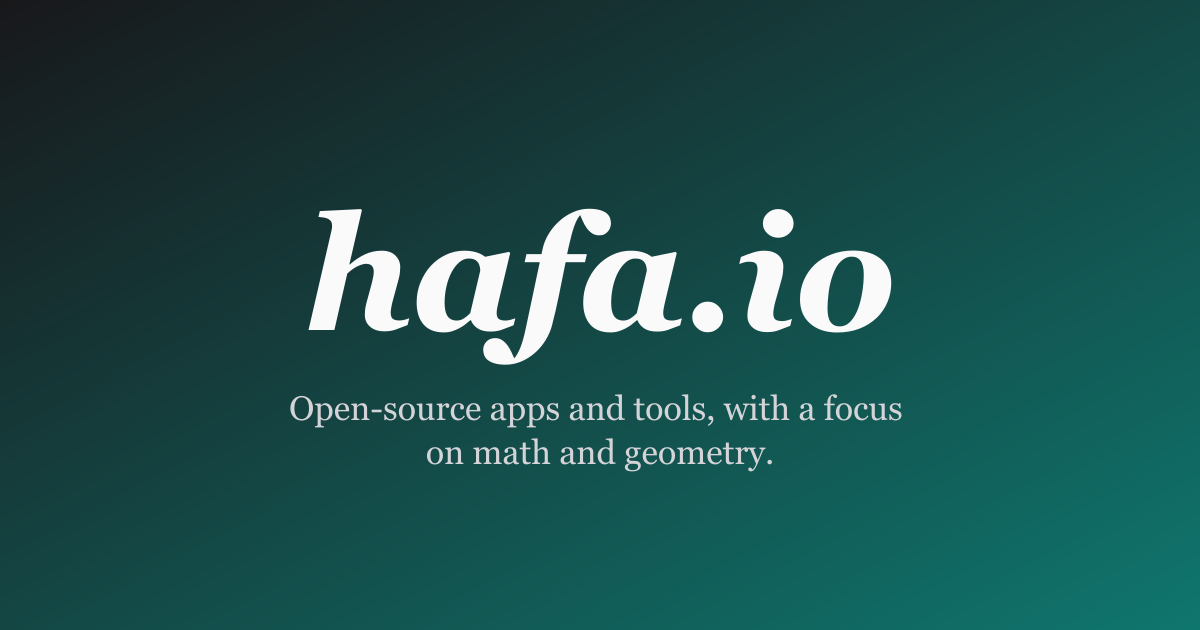
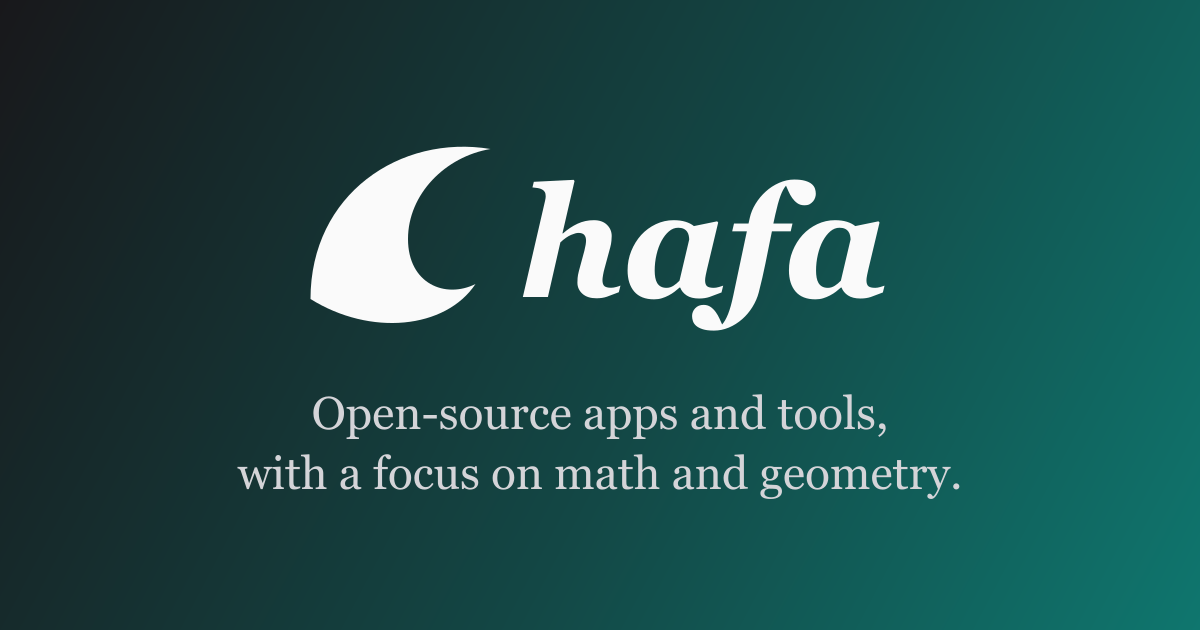
feat!: move to hafa.cc (#35)

Changed region(s): [[0.2467, 0.2111, 0.74, 0.6032], [0.185, 0.6032, 0.8017, 0.7841], [0.0, 0.8444, 0.2158, 1.0]]

diff --git a/app/page.tsx b/app/page.tsx
@@ -13,11 +13,11 @@ import { SiPolars, SiPypi } from "react-icons/si";
 import { TbBraces, TbHierarchy3 } from "react-icons/tb";
 import ExternalAnchor from "../components/external-anchor";
 import FiblatLogo from "../components/fiblat-logo";
+import HafaLogo from "../components/hafa-logo";
 import HilbertLogo from "../components/hilbert-logo";
 import Project from "../components/project";
 import ThemeButton from "../components/theme-button";
 import asciiMath from "../images/ascii-math.svg";
-import hafa from "../images/hafa.svg";
 import splash from "../images/irina-shishkina-FMlZAUFmkvw-unsplash.jpg";
 import kip from "../images/kip.svg";
 import remarkableLogo from "../images/remarkable-logo.svg";
@@ -76,13 +76,12 @@ export default function Hero(): ReactElement {
         <div className="max-w-4xl h-full mx-auto my-2 px-6 flex items-center justify-between dark:text-zinc-100">
           <Link href="/">
             <span className="flex items-center">
-              <Image
-                src={(hafa as Svg).src}
-                alt="hafa.io logo"
-                height={36}
-                width={36}
+              <HafaLogo
+                width={28}
+                height={28}
+                className="text-[#14151a] dark:text-zinc-100"
               />
-              <span className="font-cursive text-4xl pl-2">hafa.io</span>
+              <span className="font-cursive text-4xl pl-2">hafa</span>
             </span>
           </Link>
           <ThemeButton />
@@ -99,7 +98,7 @@ export default function Hero(): ReactElement {
         />
         <div className="absolute inset-0 bg-linear-to-t from-black/40 to-transparent" />
         <h1 className="relative text-8xl font-bold text-white transition-opacity duration-500 scroll-hide font-cursive select-none">
-          hafa.io
+          hafa
         </h1>
       </div>
       <main className="min-h-screen max-w-4xl mx-auto flex flex-col items-center pb-32">
@@ -129,12 +128,12 @@ export default function Hero(): ReactElement {
               buttons={[
                 {
                   text: "Website",
-                  href: "https://hafaio.github.io/scenic-route",
+                  href: "https://hafa.cc/scenic-route/",
                   icon: <FaGlobe />,
                 },
                 {
                   text: "Github",
-                  href: "https://github.com/hafaio/scenic-route",
+                  href: "https://github.com/hafacc/scenic-route",
                   icon: <FaGithub />,
                 },
               ]}
@@ -154,12 +153,12 @@ export default function Hero(): ReactElement {
               buttons={[
                 {
                   text: "Website",
-                  href: "https://hafaio.github.io/kip",
+                  href: "https://hafa.cc/kip/",
                   icon: <FaGlobe />,
                 },
                 {
                   text: "Github",
-                  href: "https://github.com/hafaio/kip",
+                  href: "https://github.com/hafacc/kip",
                   icon: <FaGithub />,
                 },
               ]}
@@ -187,7 +186,7 @@ export default function Hero(): ReactElement {
                 },
                 {
                   text: "Github",
-                  href: "https://github.com/hafaio/repub",
+                  href: "https://github.com/hafacc/repub",
                   icon: <FaGithub />,
                 },
               ]}
@@ -207,12 +206,12 @@ export default function Hero(): ReactElement {
               buttons={[
                 {
                   text: "Website",
-                  href: "https://hafaio.github.io/color-separation",
+                  href: "https://hafa.cc/color-separation/",
                   icon: <FaGlobe />,
                 },
                 {
                   text: "Github",
-                  href: "https://github.com/hafaio/color-separation",
+                  href: "https://github.com/hafacc/color-separation",
                   icon: <FaGithub />,
                 },
               ]}
@@ -225,12 +224,12 @@ export default function Hero(): ReactElement {
               buttons={[
                 {
                   text: "Website",
-                  href: "https://hafaio.github.io/loose-rat",
+                  href: "https://hafa.cc/loose-rat/",
                   icon: <FaGlobe />,
                 },
                 {
                   text: "Github",
-                  href: "https://github.com/hafaio/loose-rat",
+                  href: "https://github.com/hafacc/loose-rat",
                   icon: <FaGithub />,
                 },
               ]}
@@ -255,7 +254,7 @@ export default function Hero(): ReactElement {
                 },
                 {
                   text: "Github",
-                  href: "https://github.com/hafaio/asciimath-unicode",
+                  href: "https://github.com/hafacc/asciimath-unicode",
                   icon: <FaGithub />,
                 },
               ]}
@@ -268,12 +267,12 @@ export default function Hero(): ReactElement {
               buttons={[
                 {
                   text: "Website",
-                  href: "https://hafaio.github.io/synesthizer",
+                  href: "https://hafa.cc/synesthizer/",
                   icon: <FaGlobe />,
                 },
                 {
                   text: "Github",
-                  href: "https://github.com/hafaio/synesthizer",
+                  href: "https://github.com/hafacc/synesthizer",
                   icon: <FaGithub />,
                 },
               ]}
@@ -450,7 +449,7 @@ export default function Hero(): ReactElement {
                 },
                 {
                   text: "Github",
-                  href: "https://github.com/hafaio/fibonacci_lattice",
+                  href: "https://github.com/hafacc/fibonacci_lattice",
                   icon: <FaGithub />,
                 },
               ]}
@@ -475,7 +474,7 @@ export default function Hero(): ReactElement {
                 },
                 {
                   text: "Github",
-                  href: "https://github.com/hafaio/hilbert-bytes",
+                  href: "https://github.com/hafacc/hilbert-bytes",
                   icon: <FaGithub />,
                 },
               ]}
@@ -493,7 +492,7 @@ export default function Hero(): ReactElement {
                 },
                 {
                   text: "Github",
-                  href: "https://github.com/hafaio/homeotopy",
+                  href: "https://github.com/hafacc/homeotopy",
                   icon: <FaGithub />,
                 },
               ]}
@@ -517,7 +516,7 @@ export default function Hero(): ReactElement {
                 },
                 {
                   text: "Github",
-                  href: "https://github.com/hafaio/polars-avro",
+                  href: "https://github.com/hafacc/polars-avro",
                   icon: <FaGithub />,
                 },
               ]}
@@ -544,7 +543,7 @@ export default function Hero(): ReactElement {
         </section>
         <footer className="my-8 space-y-2 w-full text-zinc-600 dark:text-zinc-400">
           <div className="text-md flex justify-center">
-            <FooterIcon href="https://github.com/hafaio" icon={<FaGithub />} />
+            <FooterIcon href={ORG_GITHUB} icon={<FaGithub />} />
           </div>
           <div className="text-center text-sm">
             Hero photo by{" "}

diff --git a/lib/site.ts b/lib/site.ts
@@ -1,7 +1,7 @@
-export const SITE_URL = "https://hafaio.github.io";
-export const SITE_NAME = "hafa.io";
-export const SITE_TITLE = "hafa.io";
+export const SITE_URL = "https://hafa.cc";
+export const SITE_NAME = "hafa";
+export const SITE_TITLE = "hafa";
 export const SITE_DESCRIPTION =
   "Open-source apps and tools, with a focus on math and geometry.";
 export const AUTHOR_GITHUB = "https://github.com/erikbrinkman";
-export const ORG_GITHUB = "https://github.com/hafaio";
+export const ORG_GITHUB = "https://github.com/hafacc";

diff --git a/components/hafa-logo.tsx b/components/hafa-logo.tsx
@@ -1,0 +1,15 @@
+import type { ReactElement, SVGProps } from "react";
+
+export default function HafaLogo(props: SVGProps<SVGSVGElement>): ReactElement {
+  return (
+    <svg
+      viewBox="25 42 130 130"
+      fill="currentColor"
+      xmlns="http://www.w3.org/2000/svg"
+      aria-hidden="true"
+      {...props}
+    >
+      <path d="M30,150 C30,80 90,40 150,50 C120,55 95,80 95,110 C95,140 120,150 140,140 C120,170 70,175 30,150 Z" />
+    </svg>
+  );
+}

diff --git a/app/layout.tsx b/app/layout.tsx
@@ -21,7 +21,7 @@ export const metadata: Metadata = {
   },
   description: SITE_DESCRIPTION,
   applicationName: SITE_NAME,
-  keywords: ["hafa.io", "open source", "math", "geometry"],
+  keywords: ["hafa", "hafa.cc", "open source", "math", "geometry"],
   alternates: { canonical: "/" },
   openGraph: {
     type: "website",

diff --git a/README.md b/README.md
@@ -1,4 +1,4 @@
-hafa.io
-=======
+hafa
+====
 
-The forward facing hafa.io website — live at [hafa.io](https://hafaio.github.io).
+The forward facing hafa website — live at [hafa.cc](https://hafa.cc).
